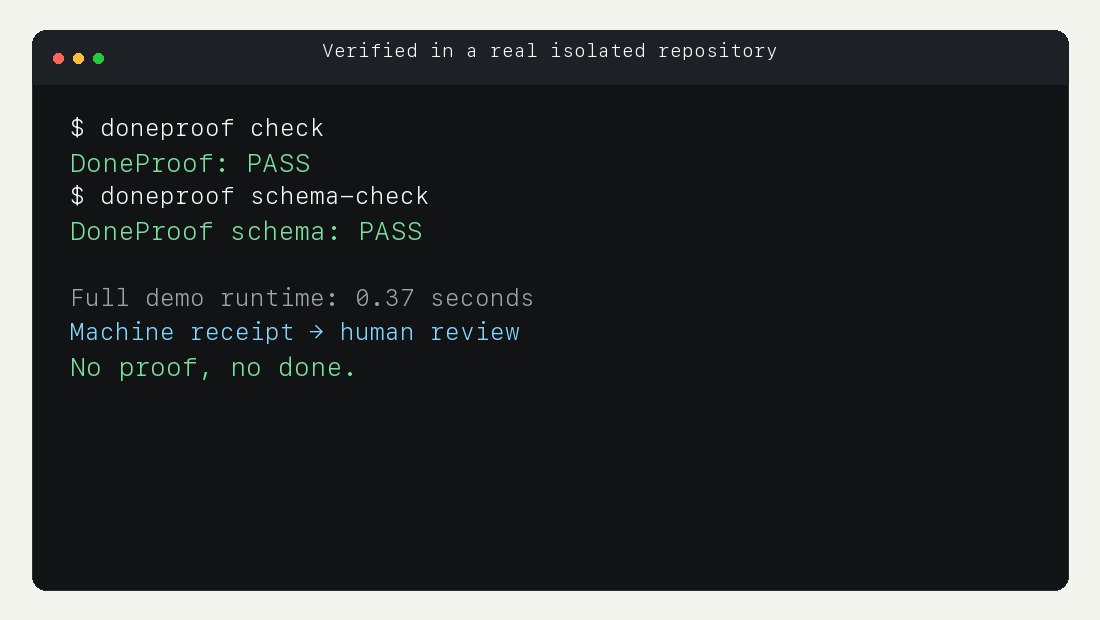
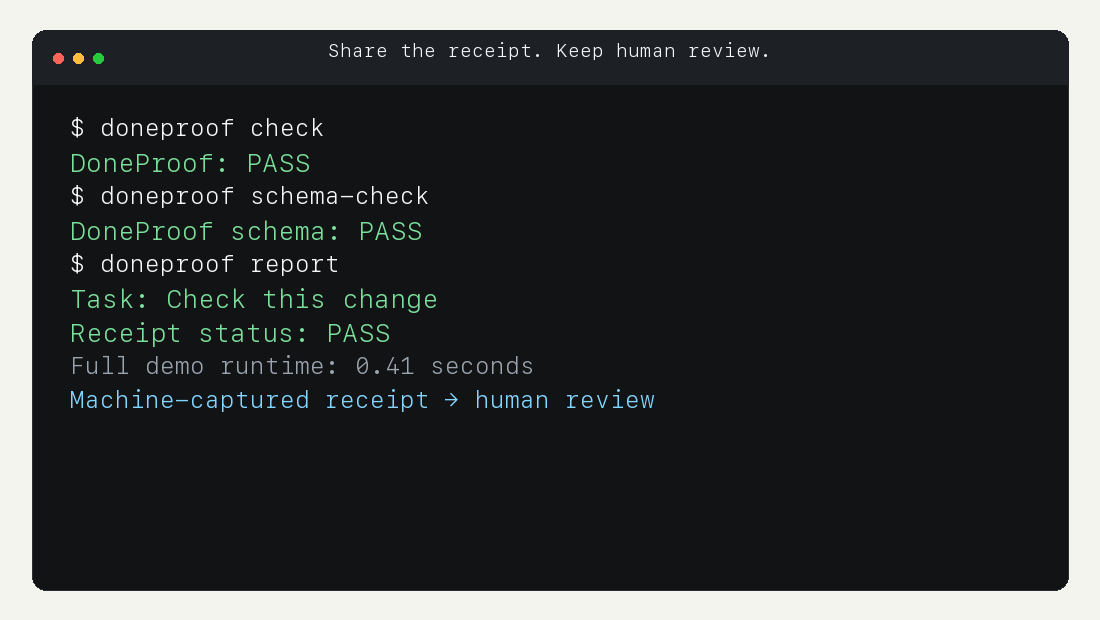
docs: align Captured Proof demo with activation

diff --git a/scripts/render_demo_gif.py b/scripts/render_demo_gif.py
@@ -3,7 +3,7 @@ from __future__ import annotations
 from html import escape
 from pathlib import Path
 
-from captured_proof_demo import DemoResult, run_demo
+from captured_proof_demo import DEMO_FRAME_DURATIONS_MS, DemoResult, run_demo
 from PIL import Image, ImageDraw, ImageFont
 
 ROOT = Path(__file__).resolve().parents[1]
@@ -100,53 +100,57 @@ def build_frames(result: DemoResult) -> list[Image.Image]:
     git_scope = proof["git_scope"]
     return [
         render_frame(
-            "The old problem",
+            "Local check evidence for AI code changes",
             [
-                ('$ doneproof new --command "passed:pytest"', "prompt"),
-                ("A person or agent typed the word “passed”.", "warn"),
-                ("DoneProof could validate the field — not the execution.", "error"),
+                ("Run the check.", "accent"),
+                ("Get a shareable receipt tied to the current Git change.", "accent"),
                 ("", "muted"),
-                ("Agent summaries are not evidence.", "accent"),
+                ("$ doneproof capture --task \"Check this change\" -- \\", "prompt"),
+                ("    git diff --check", "prompt"),
+                ("", "muted"),
+                ("No proof, no done.", "ok"),
             ],
         ),
         render_frame(
-            "Captured Proof v0.6 candidate",
+            "One real command. One current change.",
             [
-                ("$ doneproof capture --task \"Verify the agent change\" \\", "prompt"),
-                ("    --changed-file README.md -- python verify_agent_change.py", "prompt"),
-                ("agent-change-check: PASS", "ok"),
+                ("Changed file auto-selected: README.md", "accent"),
+                ("Running: git diff --check", "prompt"),
                 ("", "muted"),
                 (
                     f"Captured Proof: PASS  ·  exit 0  ·  {proof['duration_ms']} ms",
                     "ok",
                 ),
-                ("The check ran. The CLI recorded the result itself.", "accent"),
+                ("Receipt: .doneproof/receipts/latest.json", "muted"),
+                ("Review state: awaiting_review", "warn"),
+                ("DoneProof recorded the run; nobody typed “passed”.", "accent"),
             ],
         ),
         render_frame(
-            "Machine-captured receipt",
+            "Evidence without storing the evidence payload",
             [
                 (f"output       {_short_digest(output['sha256'])}", "muted"),
                 (f"git scope     {_short_digest(git_scope['sha256'])}", "muted"),
                 (f"integrity     {_short_digest(proof['integrity_sha256'])}", "muted"),
                 ("raw output     not stored", "ok"),
-                ("local paths    redacted", "ok"),
-                ("review state   awaiting_review", "warn"),
+                ("Git diff       not stored", "ok"),
+                ("changed file   README.md", "accent"),
                 ("", "muted"),
-                ("Evidence without turning the receipt into a secret sink.", "accent"),
+                ("The receipt is tied to this Git change.", "accent"),
             ],
         ),
         render_frame(
-            "Verified in a real isolated repository",
+            "Share the receipt. Keep human review.",
             [
                 ("$ doneproof check", "prompt"),
                 ("DoneProof: PASS", "ok"),
                 ("$ doneproof schema-check", "prompt"),
                 ("DoneProof schema: PASS", "ok"),
-                ("", "muted"),
+                ("$ doneproof report", "prompt"),
+                ("Task: Check this change", "ok"),
+                ("Receipt status: PASS", "ok"),
                 (f"Full demo runtime: {result.elapsed_seconds:.2f} seconds", "muted"),
-                ("Machine receipt → human review", "accent"),
-                ("No proof, no done.", "ok"),
+                ("Machine-captured receipt → human review", "accent"),
             ],
         ),
     ]
@@ -157,15 +161,15 @@ def write_svg(result: DemoResult) -> None:
     output = proof["output"]
     git_scope = proof["git_scope"]
     lines = [
-        ("$ doneproof capture --task \"Verify the agent change\" -- …", TEXT),
-        ("agent-change-check: PASS", GREEN),
+        ("$ doneproof capture --task \"Check this change\" -- git diff --check", TEXT),
+        ("Changed file auto-selected: README.md", CYAN),
         (f"exit 0 · {proof['duration_ms']} ms · raw output not stored", GREEN),
         (f"output    {_short_digest(output['sha256'])}", MUTED),
         (f"git scope  {_short_digest(git_scope['sha256'])}", MUTED),
         (f"integrity  {_short_digest(proof['integrity_sha256'])}", MUTED),
-        ("DoneProof: PASS · schema: PASS", GREEN),
+        ("check: PASS · schema: PASS · report: PASS", GREEN),
         (f"Real isolated demo: {result.elapsed_seconds:.2f}s", CYAN),
-        ("Machine receipt → human review. No proof, no done.", TEXT),
+        ("Shareable receipt → human review. No proof, no done.", TEXT),
     ]
     text = "\n".join(
         (
@@ -203,7 +207,7 @@ def main() -> None:
         GIF_PATH,
         save_all=True,
         append_images=frames[1:],
-        duration=[1900, 2700, 2600, 2600],
+        duration=DEMO_FRAME_DURATIONS_MS,
         loop=0,
         optimize=True,
         disposal=2,
@@ -214,6 +218,7 @@ def main() -> None:
     print(f"wrote {POSTER_PATH.relative_to(ROOT)}")
     print(f"wrote {SVG_PATH.relative_to(ROOT)}")
     print(f"demo runtime: {result.elapsed_seconds:.2f}s")
+    print(f"animation runtime: {sum(DEMO_FRAME_DURATIONS_MS) / 1000:.1f}s")
 
 
 if __name__ == "__main__":

diff --git a/scripts/captured_proof_demo.py b/scripts/captured_proof_demo.py
@@ -9,6 +9,8 @@ from dataclasses import dataclass
 from pathlib import Path
 from typing import Any
 
+DEMO_FRAME_DURATIONS_MS = (2200, 2800, 2600, 2800)
+
 
 @dataclass(frozen=True)
 class DemoResult:
@@ -16,6 +18,7 @@ class DemoResult:
     capture_output: str
     check_output: str
     schema_output: str
+    report_output: str
     receipt: dict[str, Any]
 
 
@@ -28,14 +31,10 @@ def run_demo() -> DemoResult:
         _doneproof(root, "init", "--root", ".")
         _git(root, "init", "-b", "main")
         _git(root, "config", "user.name", "DoneProof Demo")
-        _git(root, "config", "user.email", "demo@doneproof.local")
+        _git(root, "config", "user.email", "demo@example.invalid")
 
         root.joinpath("README.md").write_text(
             "# Example agent change\n\nBaseline.\n",
-            encoding="utf-8",
-        )
-        root.joinpath("verify_agent_change.py").write_text(
-            "print('agent-change-check: PASS')\n",
             encoding="utf-8",
         )
         _git(root, "add", ".")
@@ -52,15 +51,15 @@ def run_demo() -> DemoResult:
             "--root",
             ".",
             "--task",
-            "Verify the agent change",
-            "--changed-file",
-            "README.md",
+            "Check this change",
             "--",
-            sys.executable,
-            "verify_agent_change.py",
+            "git",
+            "diff",
+            "--check",
         )
         check = _doneproof(root, "check", "--root", ".")
         schema = _doneproof(root, "schema-check", "--root", ".")
+        report = _doneproof(root, "report", "--root", ".")
         receipt = json.loads(
             root.joinpath(".doneproof", "receipts", "latest.json").read_text(
                 encoding="utf-8"
@@ -72,6 +71,7 @@ def run_demo() -> DemoResult:
         capture_output=capture.stdout.strip(),
         check_output=check.stdout.strip(),
         schema_output=schema.stdout.strip(),
+        report_output=report.stdout.strip(),
         receipt=receipt,
     )
 
@@ -111,10 +111,14 @@ def main() -> int:
     print(result.capture_output)
     print(result.check_output)
     print(result.schema_output)
+    print(result.report_output)
+    print(f"captured_command={proof['command']}")
+    print(f"changed_files={','.join(result.receipt['changed_files'])}")
     print(f"output_digest={output['sha256']}")
     print(f"git_scope_digest={git_scope['sha256']}")
     print(f"integrity_digest={proof['integrity_sha256']}")
     print(f"raw_output_stored={str(output['content_stored']).lower()}")
+    print(f"git_diff_stored={str(git_scope['content_stored']).lower()}")
     print(f"demo_elapsed_seconds={result.elapsed_seconds:.2f}")
     print("DEMO_RESULT=PASS")
     return 0

diff --git a/tests/test_demo.py b/tests/test_demo.py
@@ -1,0 +1,37 @@
+from __future__ import annotations
+
+import importlib.util
+import sys
+from pathlib import Path
+
+SCRIPT_PATH = Path(__file__).parents[1] / "scripts" / "captured_proof_demo.py"
+SPEC = importlib.util.spec_from_file_location("captured_proof_demo", SCRIPT_PATH)
+assert SPEC is not None
+assert SPEC.loader is not None
+DEMO_MODULE = importlib.util.module_from_spec(SPEC)
+sys.modules[SPEC.name] = DEMO_MODULE
+SPEC.loader.exec_module(DEMO_MODULE)
+
+DEMO_FRAME_DURATIONS_MS = DEMO_MODULE.DEMO_FRAME_DURATIONS_MS
+run_demo = DEMO_MODULE.run_demo
+
+
+def test_captured_proof_demo_is_real_coherent_and_under_sixty_seconds() -> None:
+    result = run_demo()
+    proof = result.receipt["captured_proof"]
+
+    assert result.elapsed_seconds < 60
+    assert sum(DEMO_FRAME_DURATIONS_MS) < 60_000
+    assert result.receipt["task"] == "Check this change"
+    assert result.receipt["changed_files"] == ["README.md"]
+    assert proof["command"] == "git diff --check"
+    assert proof["result"] == "passed"
+    assert proof["exit_code"] == 0
+    assert proof["output"]["content_stored"] is False
+    assert proof["git_scope"]["content_stored"] is False
+    assert "Captured Proof: PASS" in result.capture_output
+    assert "DoneProof: PASS" in result.check_output
+    assert "DoneProof schema: PASS" in result.schema_output
+    assert "Task: Check this change" in result.report_output
+    assert "- README.md" in result.report_output
+    assert "DoneProof: PASS" in result.report_output

diff --git a/tests/test_project_files.py b/tests/test_project_files.py
@@ -155,8 +155,11 @@ def test_release_readiness_docs_exist() -> None:
         ROOT / "docs" / "CODE_QUALITY_REVIEW.md",
         ROOT / "docs" / "ADVERSARIAL_REVIEW.md",
         ROOT / "scripts" / "prepublish_check.sh",
+        ROOT / "scripts" / "captured_proof_demo.py",
         ROOT / "scripts" / "render_demo_gif.py",
+        ROOT / "docs" / "DEMO.md",
         ROOT / "docs" / "assets" / "doneproof-demo.gif",
+        ROOT / "docs" / "assets" / "doneproof-demo-poster.png",
         ROOT / "docs" / "assets" / "doneproof-demo.svg",
     ]
 
@@ -170,6 +173,19 @@ def test_readme_explains_relevance() -> None:
     assert "Why It Exists" in readme
     assert "real multi-agent work" in readme
     assert "When It Helps" in readme
+
+
+def test_readme_has_one_coherent_captured_proof_activation_path() -> None:
+    readme = ROOT.joinpath("README.md").read_text(encoding="utf-8")
+
+    assert "Local check evidence for AI code changes." in readme
+    assert "Get a shareable receipt tied to the current Git change." in readme
+    assert (
+        'doneproof capture --task "Check this change" -- git diff --check'
+        in readme
+    )
+    assert "doneproof report" in readme
+    assert "verify_agent_change.py" not in readme
 
 
 def test_agent_integration_guides_exist() -> None:

diff --git a/README.md b/README.md
@@ -113,7 +113,7 @@ one current, privacy-safe change:
 ```bash
 python3 -m pip install "doneproof @ git+https://github.com/giugiu-a11y/doneproof.git@feature/captured-proof-v0.6"
 doneproof capture --task "Check this change" -- git diff --check
-doneproof check
+doneproof report
 ```
 
 DoneProof automatically selects the current privacy-safe changed files.
@@ -127,21 +127,17 @@ Run the complete isolated demo from a candidate checkout:
 uv run --frozen --extra dev python scripts/captured_proof_demo.py
 ```
 
-The script creates an isolated Git repository, changes a real file, runs a real
-check through `doneproof capture`, validates the receipt, and validates its JSON
-schema. The latest recorded candidate demo completed capture, receipt
-validation, and schema validation in `0.58` seconds (`0.70` seconds wall time)
-on the development machine; that is evidence for this run, not a cross-machine
+The script creates an isolated Git repository, changes a real file, auto-selects
+that file, runs `git diff --check` through `doneproof capture`, validates the
+receipt and JSON schema, and renders the human-readable report. The measured
+runtime printed by the script is evidence for that run, not a cross-machine
 performance guarantee.
 
 Use the command in your own changed repository:
 
 ```bash
-doneproof capture \
-  --task "Verify the agent change" \
-  --changed-file README.md \
-  -- \
-  python3 verify_agent_change.py
+doneproof capture --task "Run the repository tests" -- python3 -m pytest -q
+doneproof report
 ```
 
 Captured Proof records:

diff --git a/docs/DEMO.md b/docs/DEMO.md
@@ -16,16 +16,16 @@ The script:
 1. creates an isolated Git repository;
 2. initializes DoneProof and commits a clean baseline;
 3. changes `README.md`;
-4. executes a real check through `doneproof capture`;
+4. auto-selects that changed file and runs `git diff --check` through
+   `doneproof capture`;
 5. writes a receipt with exit code, duration, sanitized output digest, and
    content-derived Git-scope digest;
-6. runs `doneproof check` and `doneproof schema-check`;
+6. runs `doneproof check`, `doneproof schema-check`, and `doneproof report`;
 7. fails unless every step succeeds.
 
-On 2026-07-25, the latest recorded candidate demo completed capture, receipt
-validation, and schema validation in `0.58` seconds (`0.70` seconds wall time)
-on the development machine. Treat that as a receipt for this run, not a
-universal benchmark.
+The script prints its measured runtime. Treat that as evidence for the
+individual run, not a universal performance benchmark. The generated animation
+shows the same real flow in `10.4` seconds.
 
 ## Reproduce It
 
